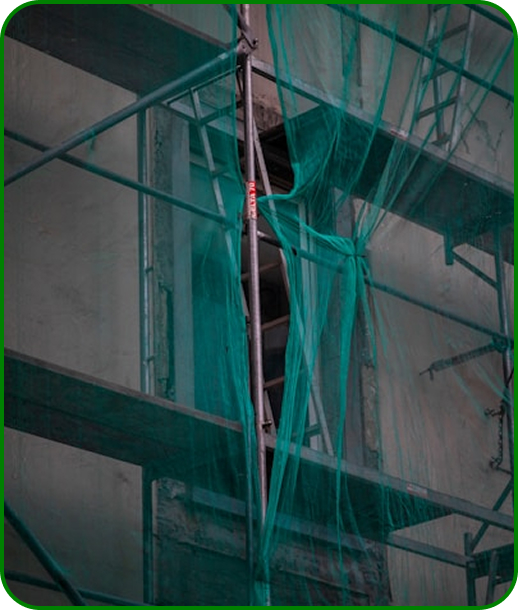
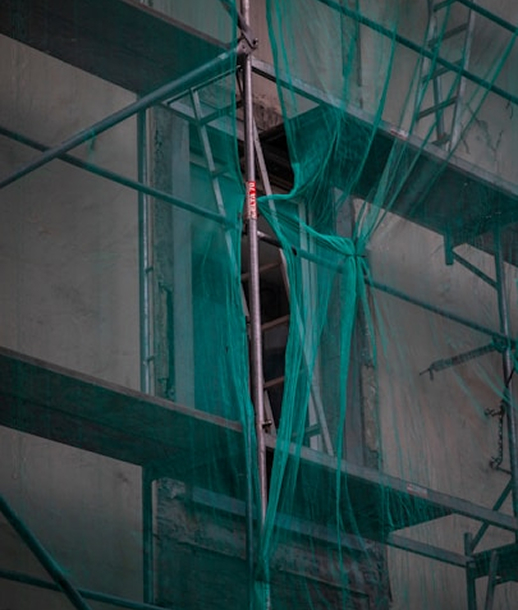
updated images for gallery

Changed region(s): [[0.0, 0.0, 1.0, 1.0]]

diff --git a/app/gallery/page.js b/app/gallery/page.js
@@ -11,7 +11,7 @@ const galleryImages = [
   '/gallery/gallery4.jpg',
   '/gallery/gallery5.jpg',
   '/gallery/gallery6.jpg',
-  '/gallery/gallery7.png',
+  '/gallery/gallery7.jpg',
   '/gallery/gallery8.jpg',
   '/gallery/gallery9.jpg',
   '/gallery/gallery10.jpg',
@@ -61,7 +61,7 @@ export default function GalleryPage() {
               src={img}
               fill
               alt={`Gallery image ${index + 1}`}
-              className='object-cover hover:scale-105 transition-transform duration-500'
+              className='object-cover hover:scale-105 border-2 border-[#008000] transition-transform duration-500'
               sizes="(max-width: 640px) 100vw,
                      (max-width: 768px) 50vw,
                      (max-width: 1024px) 33vw,
